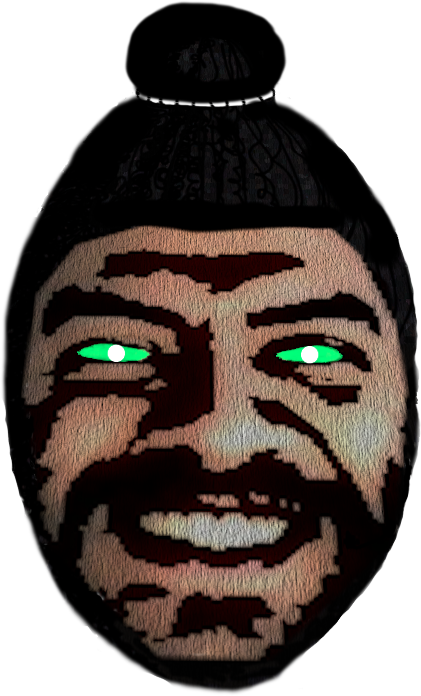
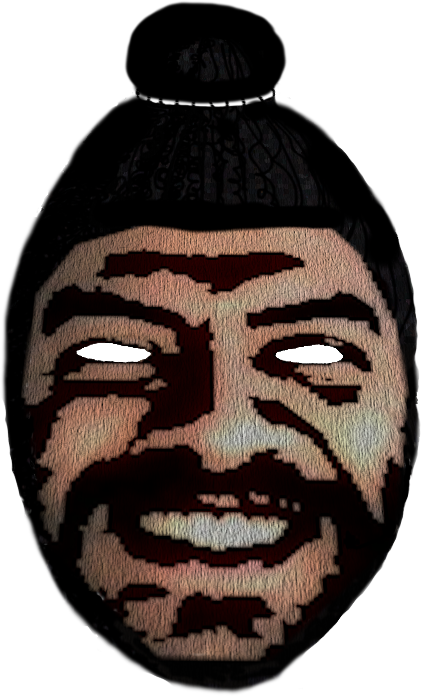
changes to styling and formatting

Changed region(s): [[0.6485, 0.4828, 0.8029, 0.5431], [0.1853, 0.4828, 0.3705, 0.5431]]

diff --git a/src/App.js b/src/App.js
@@ -23,14 +23,14 @@ function App() {
   return (
     <Router className="wrapper">
       <nav>
-        <a href="https://pdhillon.netlify.app/" target="_blank">Portfolio</a>
+        <a href="https://pdhillon.netlify.app/" target="_blank">View Portfolio</a>
         <Link className="face" to="/"> 
         <img className="face" src={face}/>
         <img className="face" src={gface}/> 
         </Link>
 
         {!isAuth ? (
-          <Link to="/login"> Login </Link>
+          <Link className="log" to="/login"></Link>
         ) : (
           <>
             <Link to="/createpost"> + </Link>
@@ -43,6 +43,7 @@ function App() {
         <Route path="/createpost" element={<CreatePost isAuth={isAuth} />} />
         <Route path="/login" element={<Login setIsAuth={setIsAuth} />} />
       </Routes>
+      <span>© {new Date().getFullYear()} Perminder</span>
     </Router>
   );
 }

diff --git a/src/pages/Home.js b/src/pages/Home.js
@@ -24,10 +24,11 @@ function Home() {
             <div className="postHeader">
               <div className="title">
                 <h1> {post.title}</h1>
+                <img className="postImage" src={post.image}></img>
               </div>
             </div>
             <div className="postTextContainer"> {post.postText} </div>
-            <h3>@{post.author.name}</h3>
+            <h3>{post.date}</h3>
           </div>
         );
       })}

diff --git a/src/App.css b/src/App.css
@@ -130,6 +130,9 @@ html{
   textarea {
     margin-top: 5px;
   }
+  .log{
+    display: none;
+  }
   
   .loginPage {
     height: calc(100vh - 80px);
@@ -227,6 +230,10 @@ html{
 	  padding-bottom: 2rem;
 	  border-radius: .2rem;
 	  transition: 1.5s;
+  }
+  .postImage{
+    padding: 1rem;
+    height: 5rem;
   }
 
   .post:hover{
